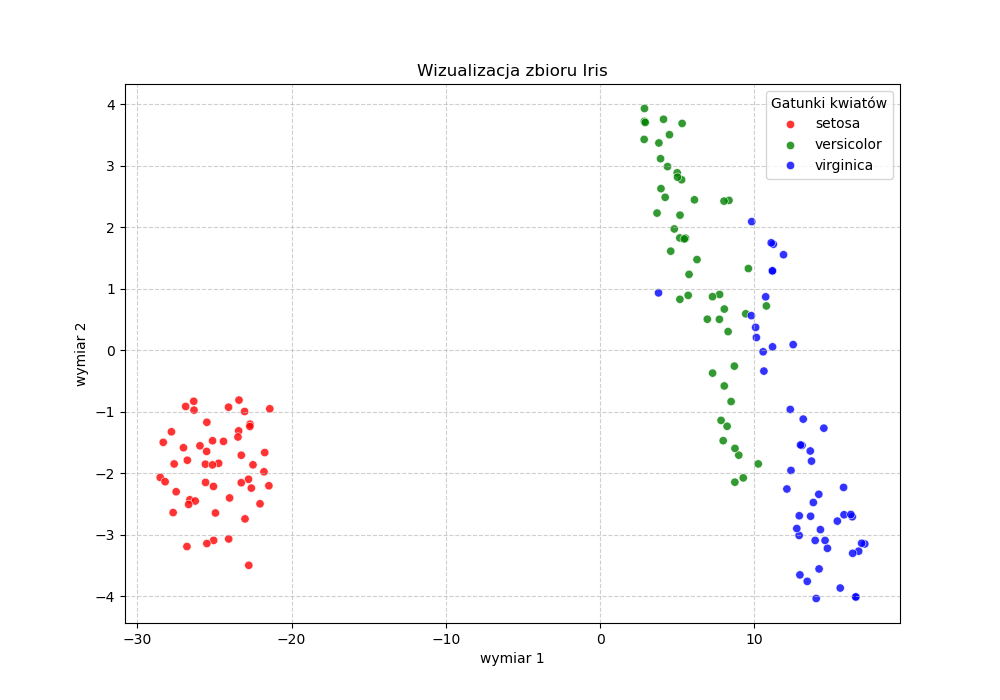
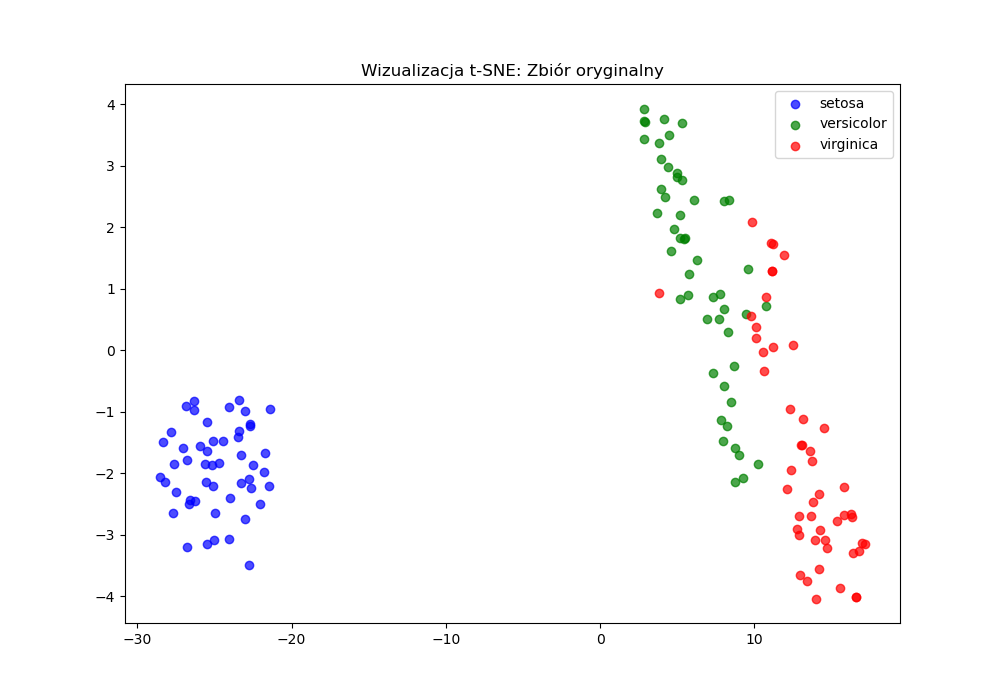
Poprawione sprawozdanie

diff --git a/Task_1/main.py b/Task_1/main.py
@@ -1,6 +1,5 @@
 import pandas as pd
 import matplotlib.pyplot as plt
-import seaborn as sns
 from sklearn.datasets import load_iris
 from sklearn.model_selection import train_test_split
 from sklearn.preprocessing import StandardScaler
@@ -9,51 +8,69 @@ from sklearn.metrics import classification_report, accuracy_score
 from sklearn.manifold import TSNE
 
 iris = load_iris()
-df = pd.DataFrame(iris.data, columns=iris.feature_names)
-print(df.describe())
-
 X_train, X_test, y_train, y_test = train_test_split(
-    iris.data, 
-    iris.target, 
-    test_size=0.2, 
-    random_state=67,
-    stratify=iris.target
+    iris.data, iris.target, test_size=0.2, random_state=67, stratify=iris.target
 )
 
-scaler = StandardScaler()
-X_train = scaler.fit_transform(X_train)
-X_test = scaler.transform(X_test)
+scaler = StandardScaler().fit(X_train)
+X_train_s, X_test_s = scaler.transform(X_train), scaler.transform(X_test)
 
-knn = KNeighborsClassifier(n_neighbors=5)
-knn.fit(X_train, y_train)
-y_pred = knn.predict(X_test)
-
-print(f"\nAccuracy: {accuracy_score(y_test, y_pred):.4f}")
-print("\n", classification_report(y_test, y_pred, target_names=iris.target_names))
-
-tsne = TSNE(n_components=2, random_state=67)
+tsne = TSNE(n_components=2, random_state=67, perplexity=30)
 X_tsne = tsne.fit_transform(iris.data)
 
-target_names_list = [iris.target_names[i] for i in iris.target]
+test_indices = []
+for val in X_test:
+    for i, orig in enumerate(iris.data):
+        if (val == orig).all(): 
+            test_indices.append(i)
+            break
 
-colors = {
-    'setosa': 'red',
-    'versicolor': 'green',
-    'virginica': 'blue'
-}
+colors = ['blue', 'green', 'red']
+
+print(f"{'k':<5} | {'Accuracy':<10}")
+print("-" * 20)
+for k in range(1, 11):
+    knn_temp = KNeighborsClassifier(n_neighbors=k).fit(X_train_s, y_train)
+    acc = accuracy_score(y_test, knn_temp.predict(X_test_s))
+    print(f"{k:<5} | {acc:.4f}")
+
+knn = KNeighborsClassifier(n_neighbors=5).fit(X_train_s, y_train)
+y_pred = knn.predict(X_test_s)
+
+print("\nMetryki klasyfikacji (k=5):\n", classification_report(y_test, y_pred, target_names=iris.target_names))
 
 plt.figure(figsize=(10, 7))
-sns.scatterplot(
-    x=X_tsne[:, 0], 
-    y=X_tsne[:, 1], 
-    hue=target_names_list, 
-    palette=colors,
-    alpha=0.8
-)
-
-plt.title("Wizualizacja zbioru Iris")
-plt.xlabel("wymiar 1")
-plt.ylabel("wymiar 2")
-plt.legend(title="Gatunki kwiatów")
-plt.grid(True, linestyle='--', alpha=0.6)
+for i, name in enumerate(iris.target_names):
+    idx = iris.target == i
+    plt.scatter(X_tsne[idx, 0], X_tsne[idx, 1], c=colors[i], label=name, alpha=0.7)
+plt.title("Wizualizacja t-SNE: Zbiór oryginalny")
+plt.legend()
 plt.savefig("wizualizacja.png")
+plt.close()
+
+plt.figure(figsize=(12, 8))
+for i in range(3):
+    idx = iris.target == i
+    plt.scatter(X_tsne[idx, 0], X_tsne[idx, 1], c=colors[i], alpha=0.1, label=iris.target_names[i])
+
+for i, idx_in_tsne in enumerate(test_indices):
+    true_label = y_test[i]
+    pred_label = y_pred[i]
+    
+    if true_label == pred_label:
+        plt.scatter(X_tsne[idx_in_tsne, 0], X_tsne[idx_in_tsne, 1], 
+                    c=colors[true_label], marker='o', edgecolors='black', s=80)
+    else:
+        plt.scatter(X_tsne[idx_in_tsne, 0], X_tsne[idx_in_tsne, 1], 
+                    c='black', marker='x', s=150, linewidths=2)
+        
+        info_text = f"Predykcja: {iris.target_names[pred_label]}\nPrawda: {iris.target_names[true_label]}"
+        plt.annotate(info_text, (X_tsne[idx_in_tsne, 0], X_tsne[idx_in_tsne, 1]), 
+                     textcoords="offset points", xytext=(40,-5), ha='center', 
+                     fontsize=7, color='black',
+                     bbox=dict(boxstyle='round,pad=0.2', alpha=0.1))
+
+plt.title("Wizualizacja t-SNE: Predykcja modelu KNN (k=5)")
+plt.grid(True, alpha=0.2)
+plt.legend(title="Gatunki")
+plt.savefig("wizualizacja_predykcja.png")
